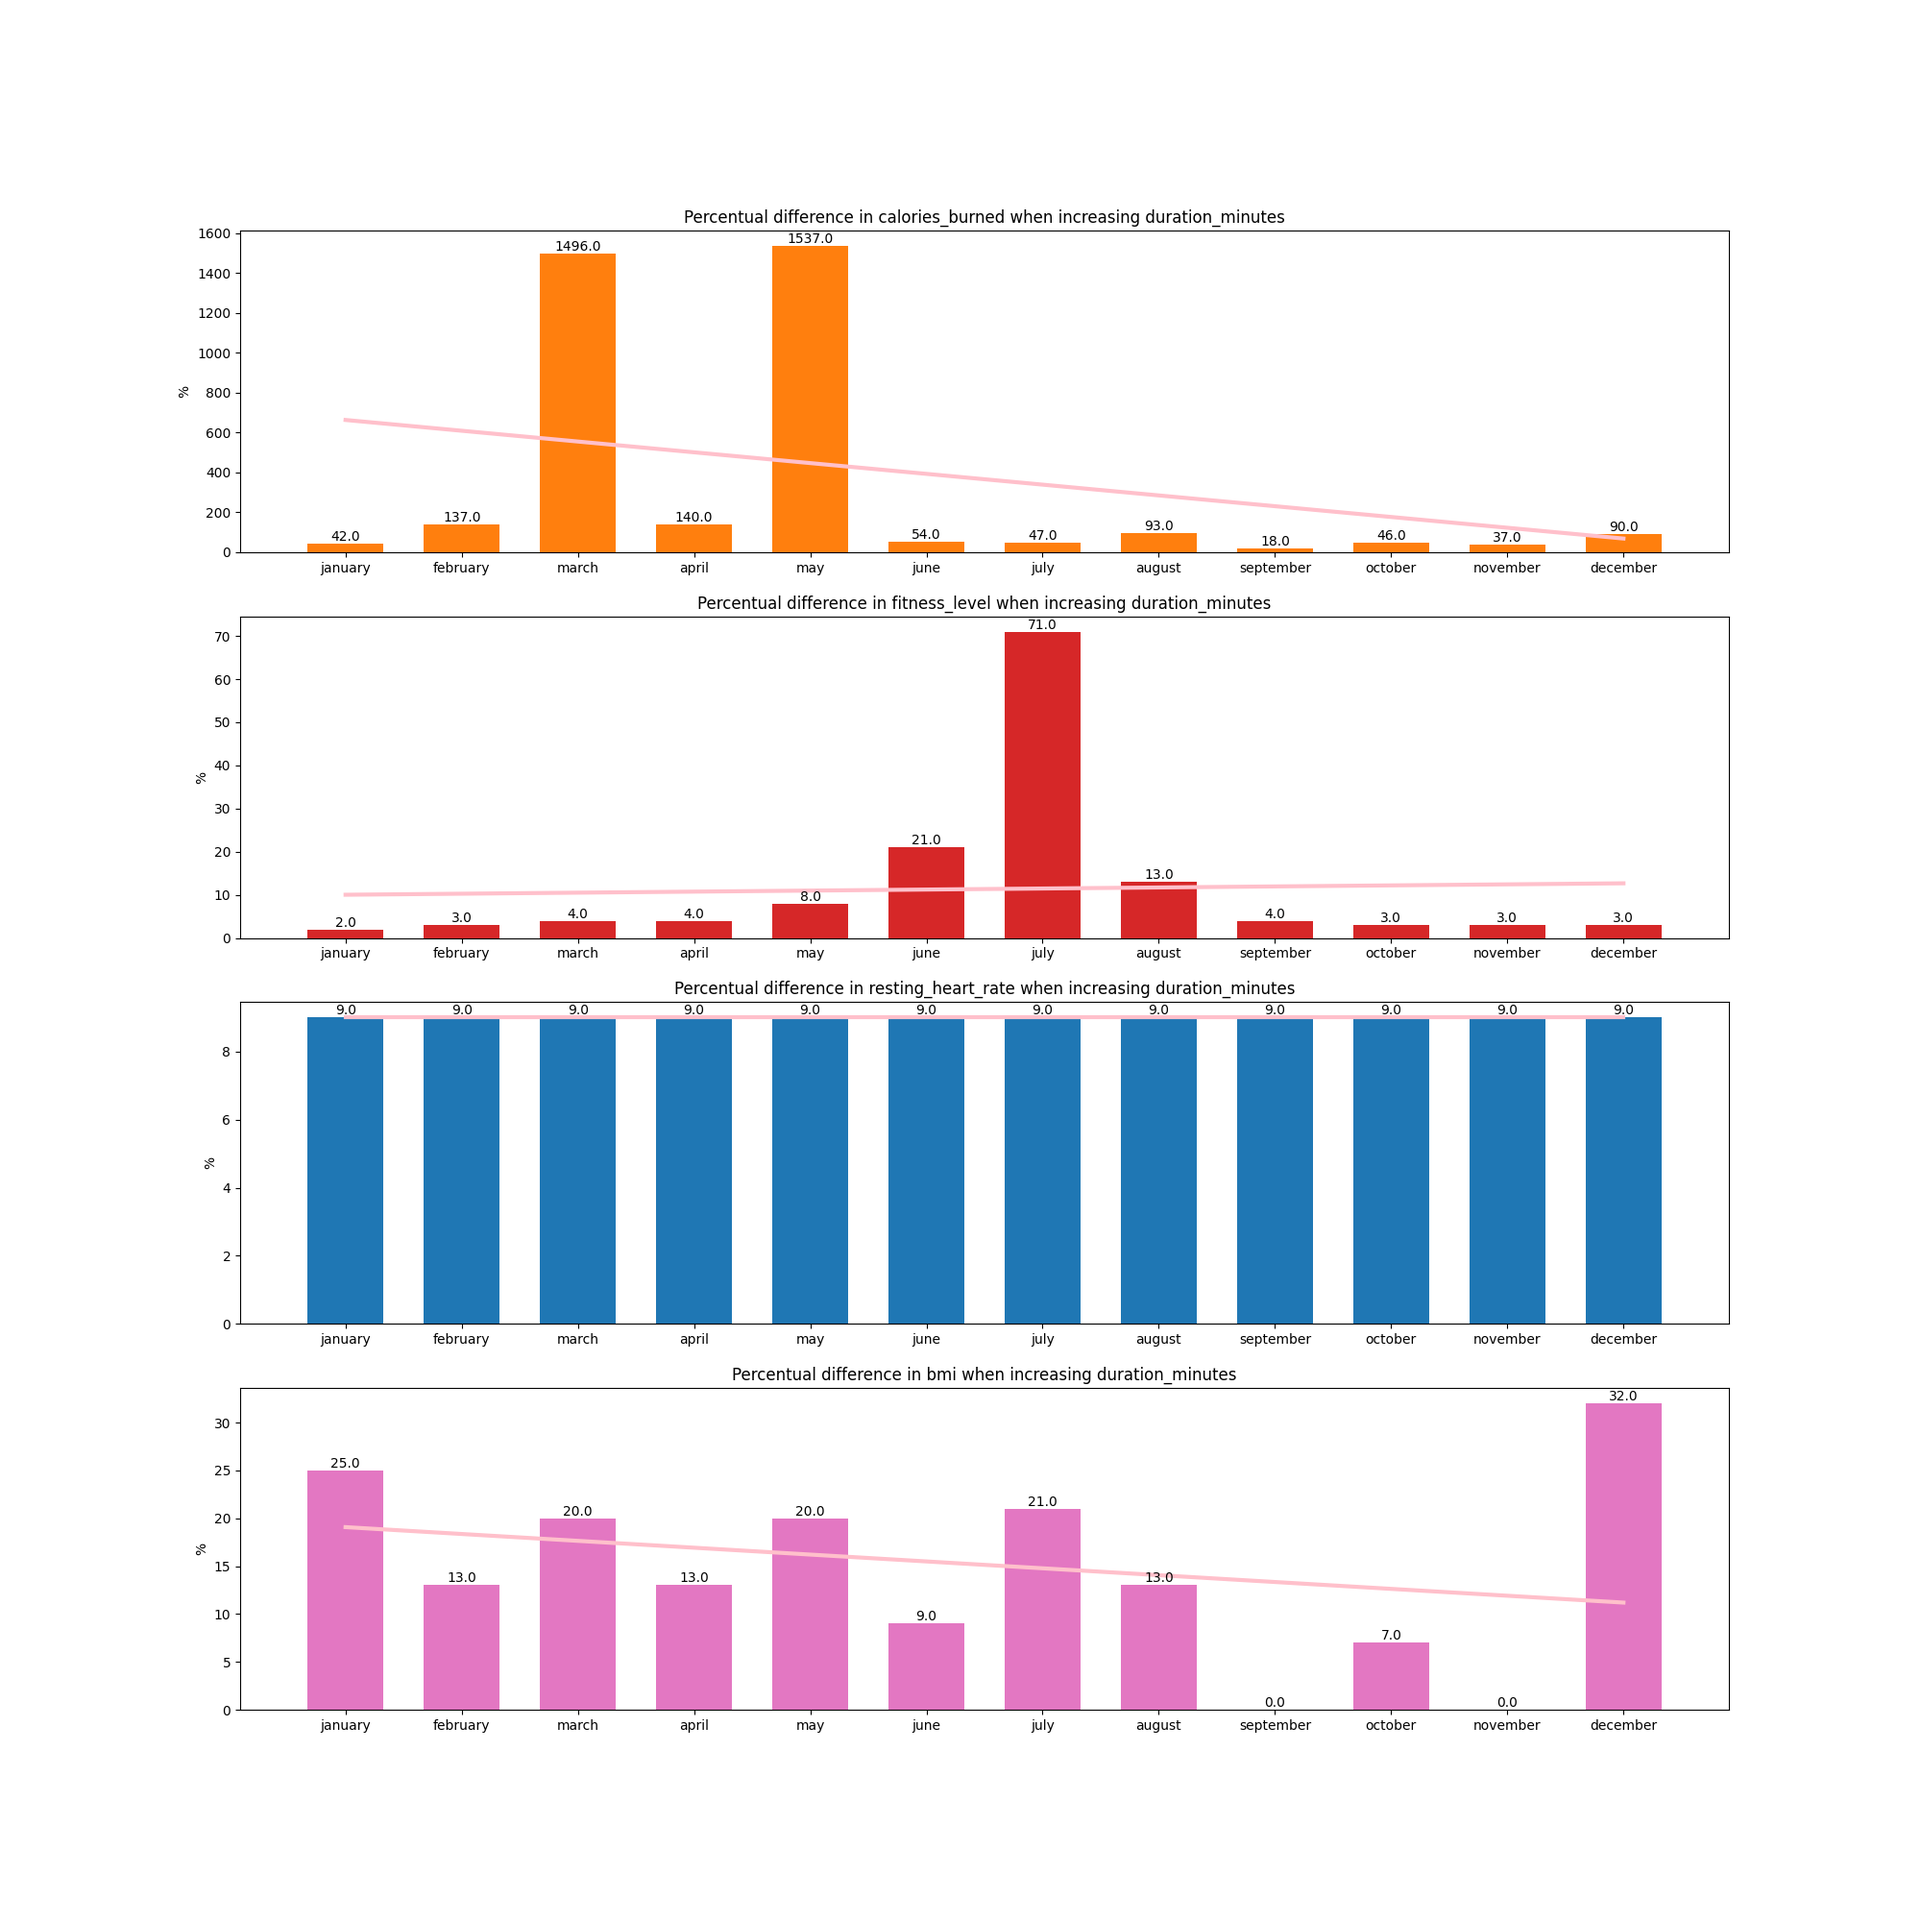
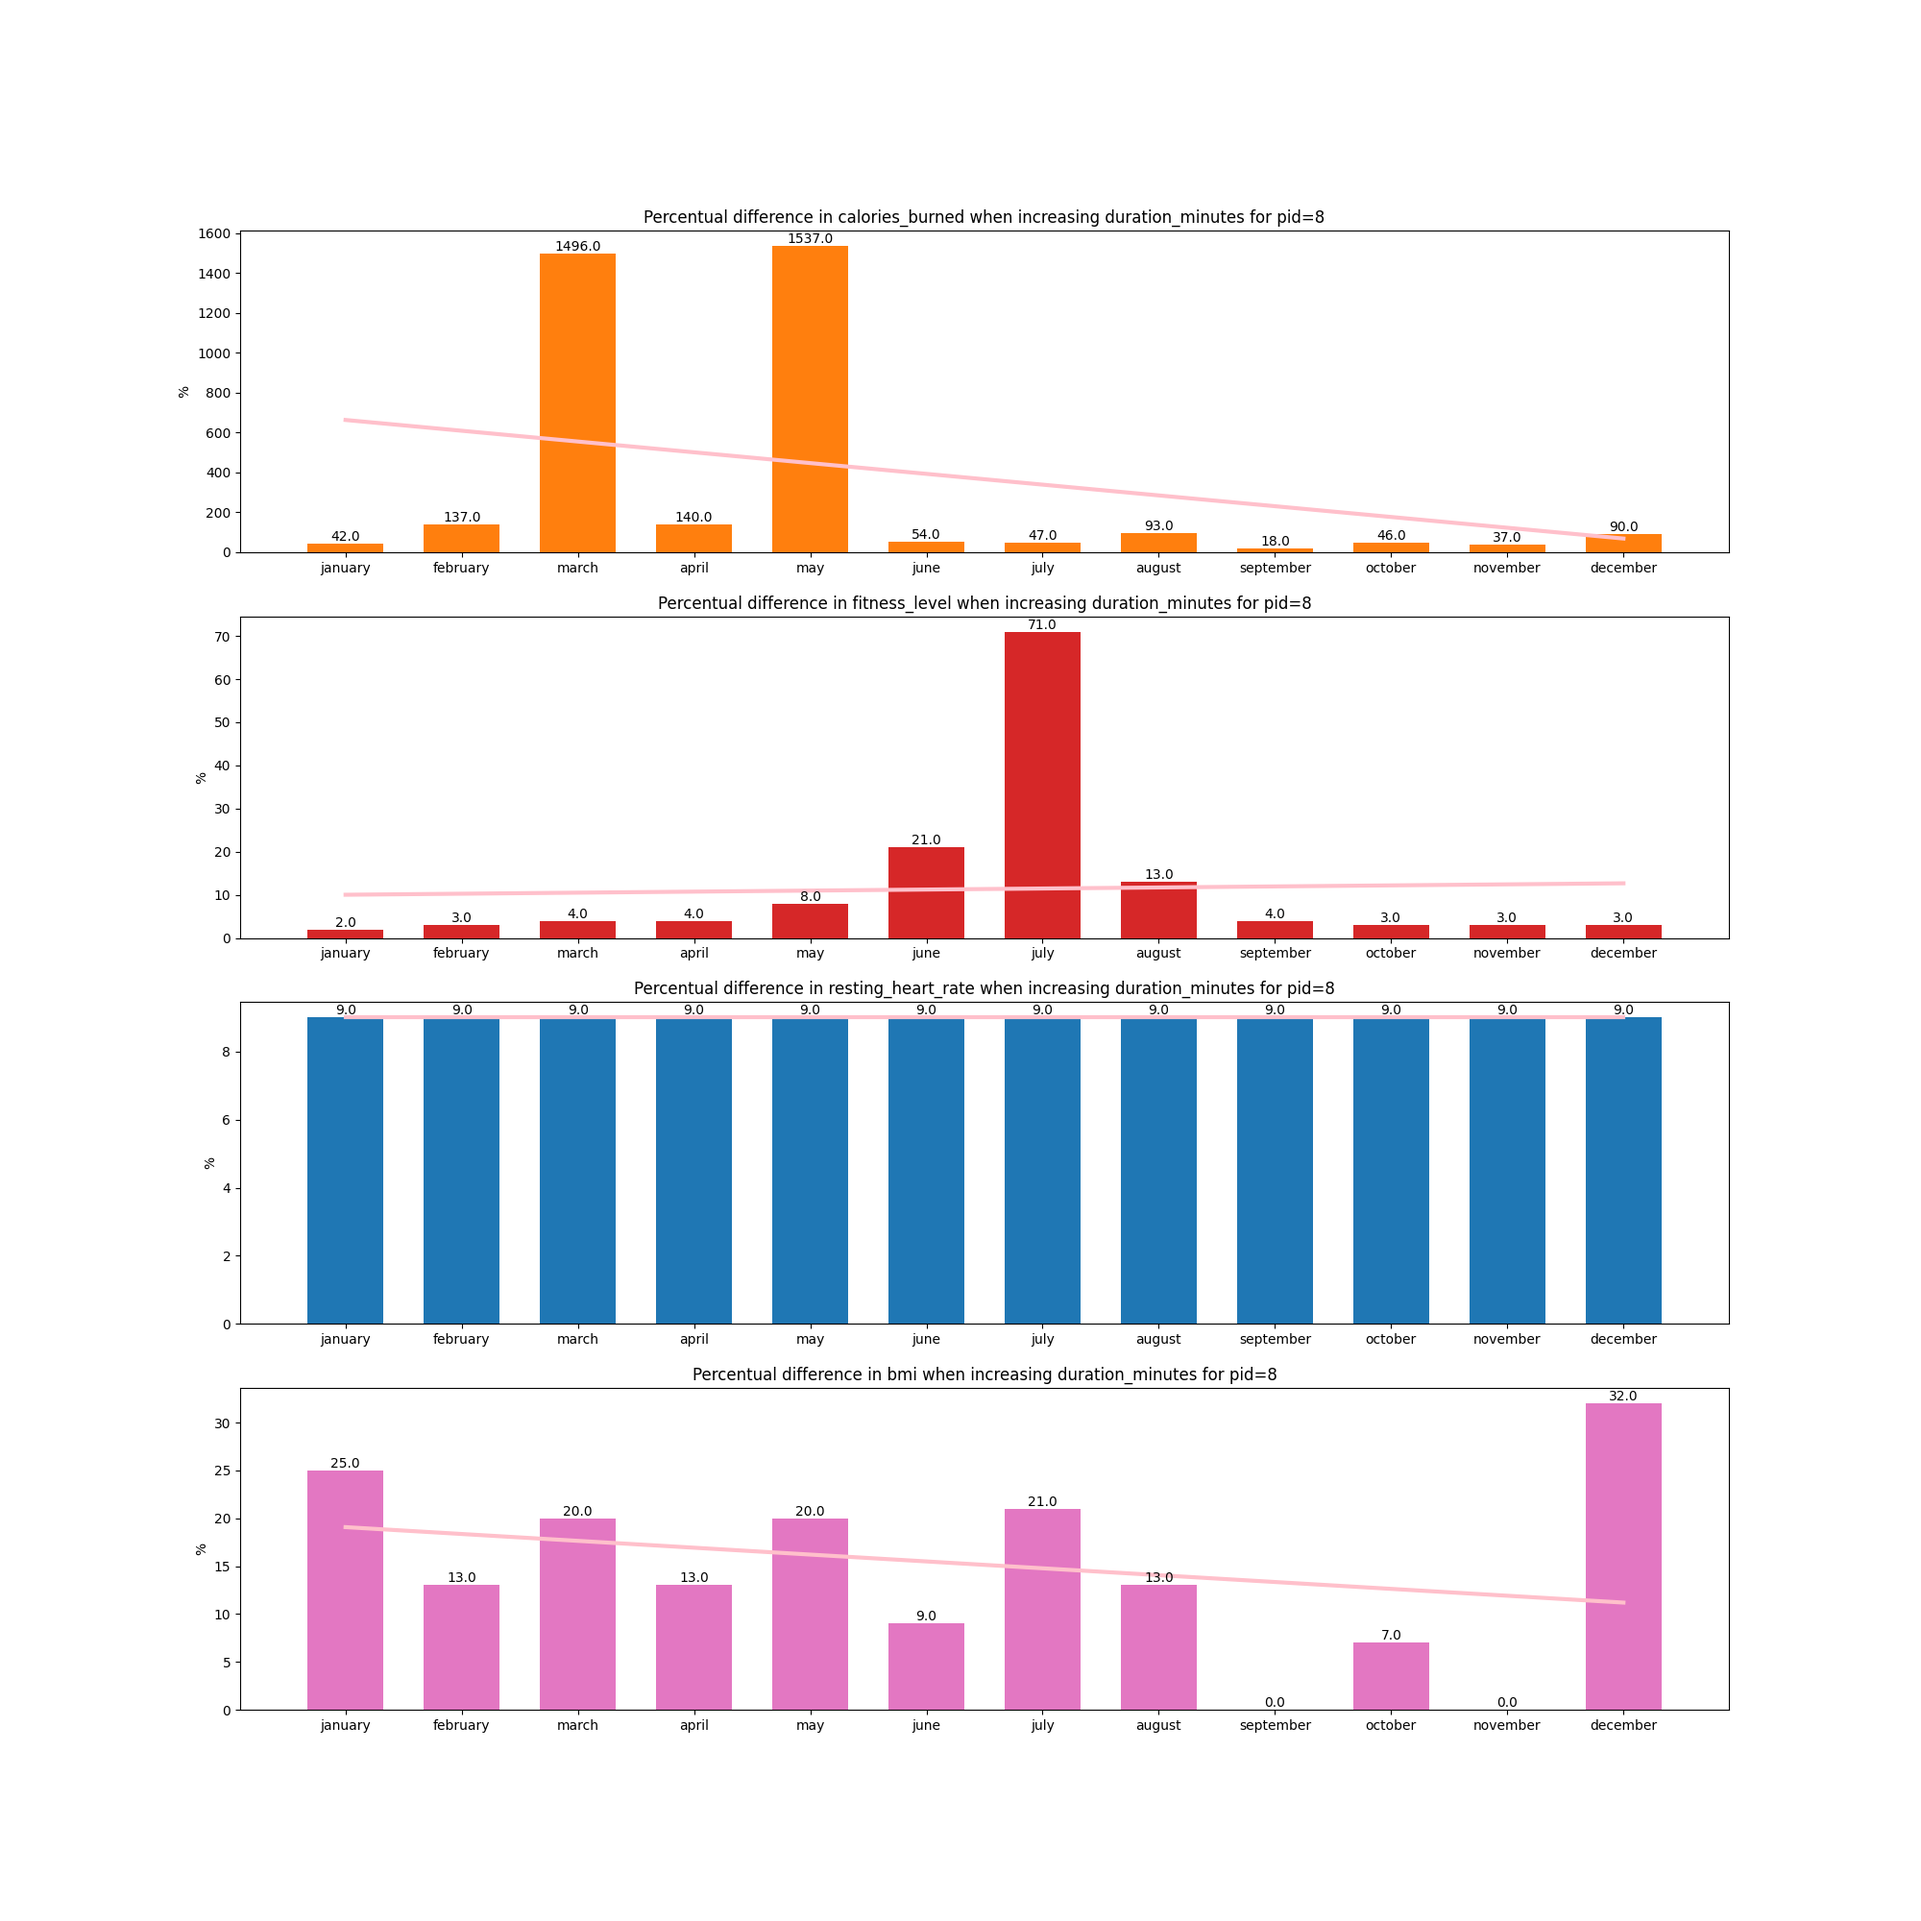
titles fixed

diff --git a/personas_analysis.py b/personas_analysis.py
@@ -101,7 +101,7 @@ for pid in pids_personas:
         ax[0].plot(months, p(x), color='pink', linewidth=3)
         # ax[0].grid(True, linestyle='-.')
         ax[0].set_ylabel('%')
-        ax[0].set_title('Percentual difference in calories_burned when reducing daily_steps')
+        ax[0].set_title('Percentual difference in calories_burned when reducing daily_steps for pid=2')
         ax[0].set_xticks(x, months)
         p1 = ax[1].bar(months, perc1, width, color='tab:red')
         ax[1].bar_label(p1, fmt=lambda x: x)
@@ -110,7 +110,7 @@ for pid in pids_personas:
         ax[1].plot(months, p(x), color='pink', linewidth=3)
         # ax[1].grid(True, linestyle='-.')
         ax[1].set_ylabel('%')
-        ax[1].set_title('Percentual difference in fitness_level when reducing daily_steps')
+        ax[1].set_title('Percentual difference in fitness_level when reducing daily_steps for pid=2')
         ax[1].set_xticks(x, months)
         p2 = ax[2].bar(months, perc2, width, color='tab:blue')
         ax[2].bar_label(p2, fmt=lambda x: x)
@@ -119,7 +119,7 @@ for pid in pids_personas:
         ax[2].plot(months, p(x), color='pink', linewidth=3)
         # ax[2].grid(True, linestyle='-.')
         ax[2].set_ylabel('%')
-        ax[2].set_title('Percentual difference in bmi when reducing daily_steps')
+        ax[2].set_title('Percentual difference in bmi when reducing daily_steps for pid=2')
         ax[2].set_xticks(x, months)
         plt.savefig('/Users/luca_lavazza/Documents/GitHub/Health_Cefriel/graphs/counterfactual-pid=' + str(2) + '-percentual_difference')
         plt.close('all')
@@ -189,7 +189,7 @@ for pid in pids_personas:
         p2 = np.poly1d(z2)
         ax.plot(months, p2(x), color='orange', linewidth=3)
         ax.set_ylabel('%')
-        ax.set_title('Percentual difference in duration_minutes depending on hours_sleep')
+        ax.set_title('Percentual difference in duration_minutes depending on hours_sleep for pid=5')
         ax.set_xticks(x + width, months)
         ax.legend(loc='upper left', ncols=2)
         plt.savefig(
@@ -258,7 +258,7 @@ for pid in pids_personas:
         p2 = np.poly1d(z2)
         ax.plot(months, p2(x), color='orange', linewidth=3)
         ax.set_ylabel('%')
-        ax.set_title('Percentual difference in calories_burned depending on duration_minutes')
+        ax.set_title('Percentual difference in calories_burned depending on duration_minutes for pid=6')
         ax.set_xticks(x + width, months)
         ax.legend(loc='upper left', ncols=2)
         plt.savefig(
@@ -332,7 +332,7 @@ for pid in pids_personas:
         ax[0].plot(months, p(x), color='pink', linewidth=3)
         # ax[0].grid(True, linestyle='-.')
         ax[0].set_ylabel('%')
-        ax[0].set_title('Percentual difference in calories_burned when increasing duration_minutes')
+        ax[0].set_title('Percentual difference in calories_burned when increasing duration_minutes for pid=8')
         ax[0].set_xticks(x, months)
         p1 = ax[1].bar(months, perc1, width, color='tab:red')
         ax[1].bar_label(p1, fmt=lambda x: x)
@@ -341,7 +341,7 @@ for pid in pids_personas:
         ax[1].plot(months, p(x), color='pink', linewidth=3)
         # ax[1].grid(True, linestyle='-.')
         ax[1].set_ylabel('%')
-        ax[1].set_title('Percentual difference in fitness_level when increasing duration_minutes')
+        ax[1].set_title('Percentual difference in fitness_level when increasing duration_minutes for pid=8')
         ax[1].set_xticks(x, months)
         p2 = ax[2].bar(months, perc2, width, color='tab:blue')
         ax[2].bar_label(p2, fmt=lambda x: x)
@@ -350,7 +350,7 @@ for pid in pids_personas:
         ax[2].plot(months, p(x), color='pink', linewidth=3)
         # ax[2].grid(True, linestyle='-.')
         ax[2].set_ylabel('%')
-        ax[2].set_title('Percentual difference in resting_heart_rate when increasing duration_minutes')
+        ax[2].set_title('Percentual difference in resting_heart_rate when increasing duration_minutes for pid=8')
         ax[2].set_xticks(x, months)
         p3 = ax[3].bar(months, perc3, width, color='tab:pink')
         ax[3].bar_label(p3, fmt=lambda x: x)
@@ -359,7 +359,7 @@ for pid in pids_personas:
         ax[3].plot(months, p(x), color='pink', linewidth=3)
         # ax[2].grid(True, linestyle='-.')
         ax[3].set_ylabel('%')
-        ax[3].set_title('Percentual difference in bmi when increasing duration_minutes')
+        ax[3].set_title('Percentual difference in bmi when increasing duration_minutes for pid=8')
         ax[3].set_xticks(x, months)
         plt.savefig('/Users/luca_lavazza/Documents/GitHub/Health_Cefriel/graphs/counterfactual-pid=' + str(8) + '-percentual_difference')
         plt.close('all')
@@ -406,7 +406,7 @@ for pid in pids_personas:
         ax.plot(months, p(x), color='pink', linewidth=3)
         # ax[0].grid(True, linestyle='-.')
         ax.set_ylabel('%')
-        ax.set_title('Percentual difference in calories_burned when increasing daily steps and duration_minutes')
+        ax.set_title('Percentual difference in calories_burned when increasing daily steps and duration_minutes for pid=11')
         ax.set_xticks(x, months)
         plt.savefig('/Users/luca_lavazza/Documents/GitHub/Health_Cefriel/graphs/counterfactual-pid=' + str(11) + '-percentual_difference')
         plt.close('all')
@@ -454,7 +454,7 @@ for pid in pids_personas:
         ax.plot(months, p(x), color='pink', linewidth=3)
         # ax[0].grid(True, linestyle='-.')
         ax.set_ylabel('%')
-        ax.set_title('Percentual difference in calories_burned when increasing fitness_level')
+        ax.set_title('Percentual difference in calories_burned when increasing fitness_level for pid=26')
         ax.set_xticks(x, months)
         plt.savefig('/Users/luca_lavazza/Documents/GitHub/Health_Cefriel/graphs/counterfactual-pid=' + str(26) + '-percentual_difference')
         plt.close('all')
@@ -525,7 +525,7 @@ for pid in pids_personas:
         p2 = np.poly1d(z2)
         ax.plot(months, p2(x), color='orange', linewidth=3)
         ax.set_ylabel('%')
-        ax.set_title('Percentual difference in calories_burned only doing one sport')
+        ax.set_title('Percentual difference in calories_burned only doing one sport for pid=30')
         ax.set_xticks(x + width, months)
         ax.legend(loc='upper left', ncols=2)
         plt.savefig(
@@ -572,7 +572,7 @@ for pid in pids_personas:
         ax.plot(months, p(x), color='pink', linewidth=3)
         # ax[0].grid(True, linestyle='-.')
         ax.set_ylabel('%')
-        ax.set_title('Percentual difference in bmi when lowering calories_burned')
+        ax.set_title('Percentual difference in bmi when lowering calories_burned for pid=41')
         ax.set_xticks(x, months)
         plt.savefig('/Users/luca_lavazza/Documents/GitHub/Health_Cefriel/graphs/counterfactual-pid=' + str(41) + '-percentual_difference')
         plt.close('all')
@@ -640,7 +640,7 @@ for pid in pids_personas:
         ax[0].plot(months, p(x), color='pink', linewidth=3)
         # ax[0].grid(True, linestyle='-.')
         ax[0].set_ylabel('%')
-        ax[0].set_title('Percentual difference in blood_pressure_systolic when increasing duration_minutes')
+        ax[0].set_title('Percentual difference in blood_pressure_systolic when increasing duration_minutes for pid=108')
         ax[0].set_xticks(x, months)
         p1 = ax[1].bar(months, perc1, width, color='tab:red')
         ax[1].bar_label(p1, fmt=lambda x: x)
@@ -649,7 +649,7 @@ for pid in pids_personas:
         ax[1].plot(months, p(x), color='pink', linewidth=3)
         # ax[1].grid(True, linestyle='-.')
         ax[1].set_ylabel('%')
-        ax[1].set_title('Percentual difference in blood_pressure_diastolic when increasing duration_minutes')
+        ax[1].set_title('Percentual difference in blood_pressure_diastolic when increasing duration_minutes for pid=108')
         ax[1].set_xticks(x, months)
         p2 = ax[2].bar(months, perc2, width, color='tab:blue')
         ax[2].bar_label(p2, fmt=lambda x: x)
@@ -658,7 +658,7 @@ for pid in pids_personas:
         ax[2].plot(months, p(x), color='pink', linewidth=3)
         # ax[2].grid(True, linestyle='-.')
         ax[2].set_ylabel('%')
-        ax[2].set_title('Percentual difference in resting_heart_rate when increasing duration_minutes')
+        ax[2].set_title('Percentual difference in resting_heart_rate when increasing duration_minutes for pid=108')
         ax[2].set_xticks(x, months)
         plt.savefig('/Users/luca_lavazza/Documents/GitHub/Health_Cefriel/graphs/counterfactual-pid=' + str(108) + '-percentual_difference')
         plt.close('all')
@@ -713,7 +713,7 @@ for pid in pids_personas:
         ax[0].plot(months, p(x), color='pink', linewidth=3)
         # ax[0].grid(True, linestyle='-.')
         ax[0].set_ylabel('%')
-        ax[0].set_title('Percentual difference in fitness_level when increasing duration_minutes')
+        ax[0].set_title('Percentual difference in fitness_level when increasing duration_minutes for pid=165')
         ax[0].set_xticks(x, months)
         p1 = ax[1].bar(months, perc1, width, color='tab:red')
         ax[1].bar_label(p1, fmt=lambda x: x)
@@ -722,7 +722,7 @@ for pid in pids_personas:
         ax[1].plot(months, p(x), color='pink', linewidth=3)
         # ax[1].grid(True, linestyle='-.')
         ax[1].set_ylabel('%')
-        ax[1].set_title('Percentual difference in bmi when increasing duration_minutes')
+        ax[1].set_title('Percentual difference in bmi when increasing duration_minutes for pid=165')
         ax[1].set_xticks(x, months)
         plt.savefig('/Users/luca_lavazza/Documents/GitHub/Health_Cefriel/graphs/counterfactual-pid=' + str(165) + '-percentual_difference')
         plt.close('all')
@@ -769,7 +769,7 @@ for pid in pids_personas:
         ax.plot(months, p(x), color='pink', linewidth=3)
         # ax[0].grid(True, linestyle='-.')
         ax.set_ylabel('%')
-        ax.set_title('Percentual difference in resting_heart_rate when increasing duration_minutes')
+        ax.set_title('Percentual difference in resting_heart_rate when increasing duration_minutes for pid=172')
         ax.set_xticks(x, months)
         plt.savefig('/Users/luca_lavazza/Documents/GitHub/Health_Cefriel/graphs/counterfactual-pid=' + str(172) + '-percentual_difference')
         plt.close('all')
@@ -816,7 +816,7 @@ for pid in pids_personas:
         ax.plot(months, p(x), color='pink', linewidth=3)
         # ax[0].grid(True, linestyle='-.')
         ax.set_ylabel('%')
-        ax.set_title('Percentual difference in fitness_level when increasing duration_minutes and daily_steps')
+        ax.set_title('Percentual difference in fitness_level when increasing duration_minutes and daily_steps for pid=262')
         ax.set_xticks(x, months)
         plt.savefig('/Users/luca_lavazza/Documents/GitHub/Health_Cefriel/graphs/counterfactual-pid=' + str(262) + '-percentual_difference')
         plt.close('all')
